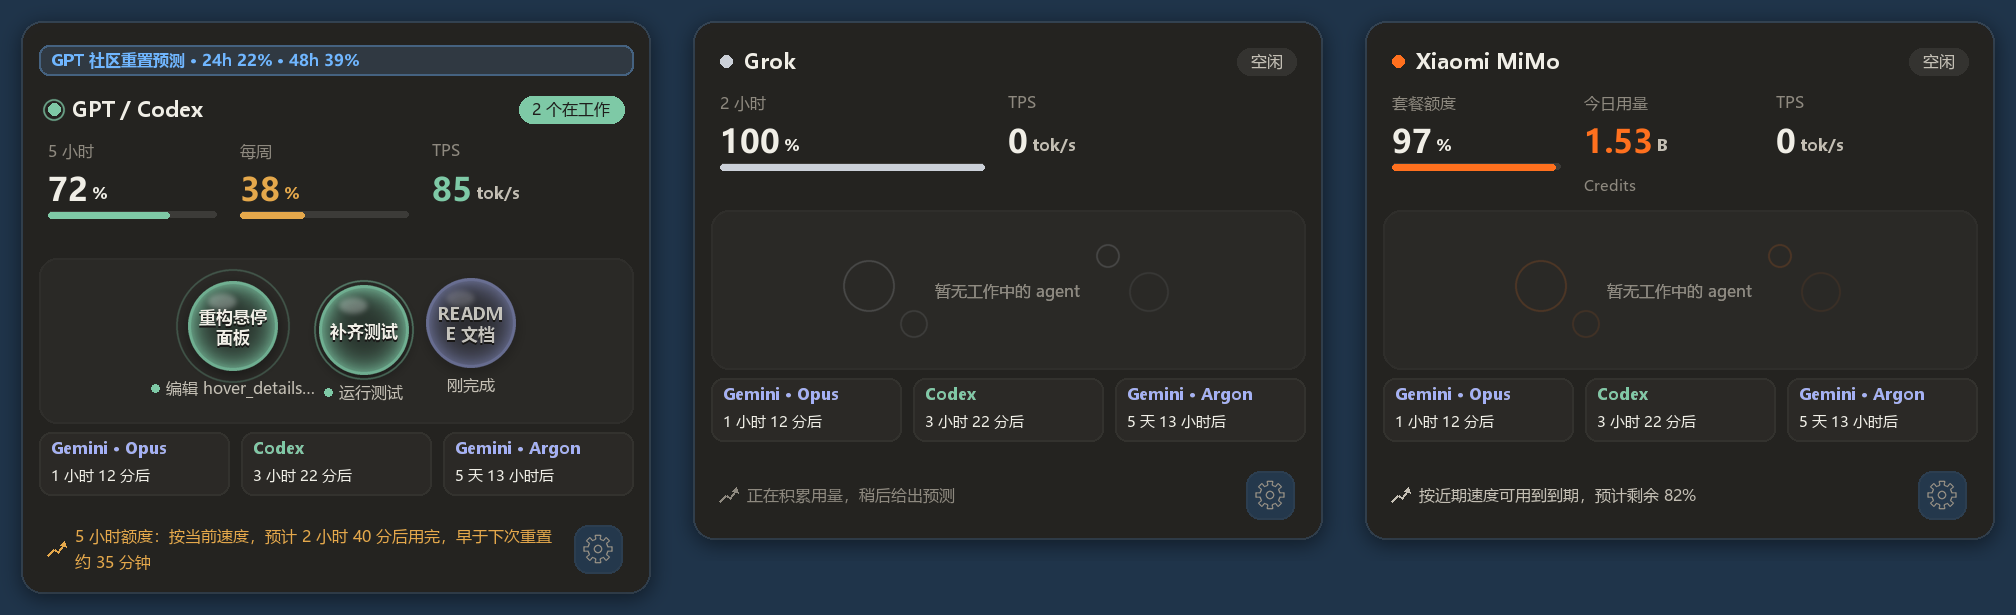
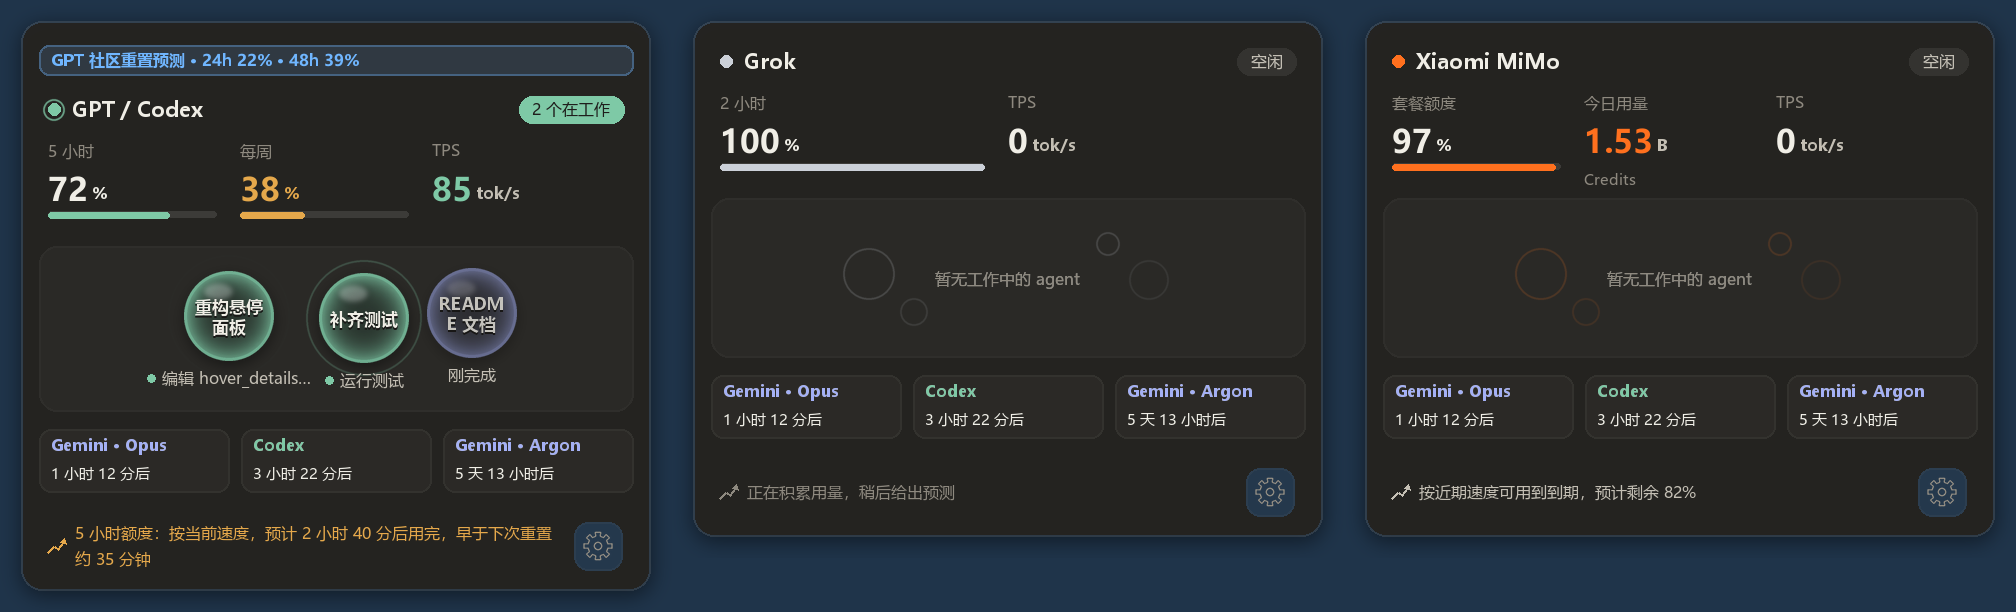
Balance spacing above task bubbles and below countdowns

diff --git a/agent_panel.py b/agent_panel.py
@@ -103,7 +103,7 @@ class PanelModel:
 
 METER_TOP = PAD + 32        # Top of the quota / TPS row.
 FOOTER = 54                 # Two forecast lines plus a separate settings button.
-RESET_HEIGHT = 56           # Source name and countdown only.
+RESET_HEIGHT = 62           # Leave a clear gap between task bubbles and countdowns.
 GEAR_RADIUS = 9.0
 GEAR_HIT = 17.0
 
@@ -130,7 +130,7 @@ def field_top(model: PanelModel | None) -> float:
     if model is None:
         return FIELD_TOP
     # Reserve the subtitle row (e.g. MiMo Credits) to keep every source the same height.
-    return FIELD_TOP + 14 + header_offset(model)
+    return FIELD_TOP + 6 + header_offset(model)
 
 
 def pack(bubbles, top: float = FIELD_TOP) -> tuple[dict[str, tuple[float, float]], float]:
@@ -900,7 +900,7 @@ def background(header: tuple, field_h: int, scale: float) -> Image.Image:
     for (x, end), (label, reset) in zip(columns, labels):
         draw.text((px(x), px(y)), label, font=label_font, fill=MUTED_TEXT, anchor="lt")
         if daily and label == "今日用量":
-            draw.text((px(x), px(y + 55)), reset, font=small, fill=MUTED_TEXT, anchor="lt")
+            draw.text((px(x), px(y + 51)), reset, font=small, fill=MUTED_TEXT, anchor="lt")
             continue
         if label != "TPS":
             draw.rounded_rectangle((px(x), px(y + 45), px(end), px(y + 49)), radius=px(2), fill=TRACK)
@@ -915,7 +915,7 @@ def background(header: tuple, field_h: int, scale: float) -> Image.Image:
                            fill=(240, 238, 230, 7), outline=(240, 238, 230, 14), width=max(1, round(s)))
     if empty:
         draw.text((px(WIDTH / 2), px(top + field_h / 2)), "暂无工作中的 agent", font=ui_font(px(11)), fill=MUTED_TEXT, anchor="mm")
-    reset_y = top + field_h + 10
+    reset_y = top + field_h + 16
     gap = 8
     column_left = PAD - 6   # Same outer edges as the bubble field above.
     column_w = (WIDTH - 2 * column_left - 2 * gap) / 3
